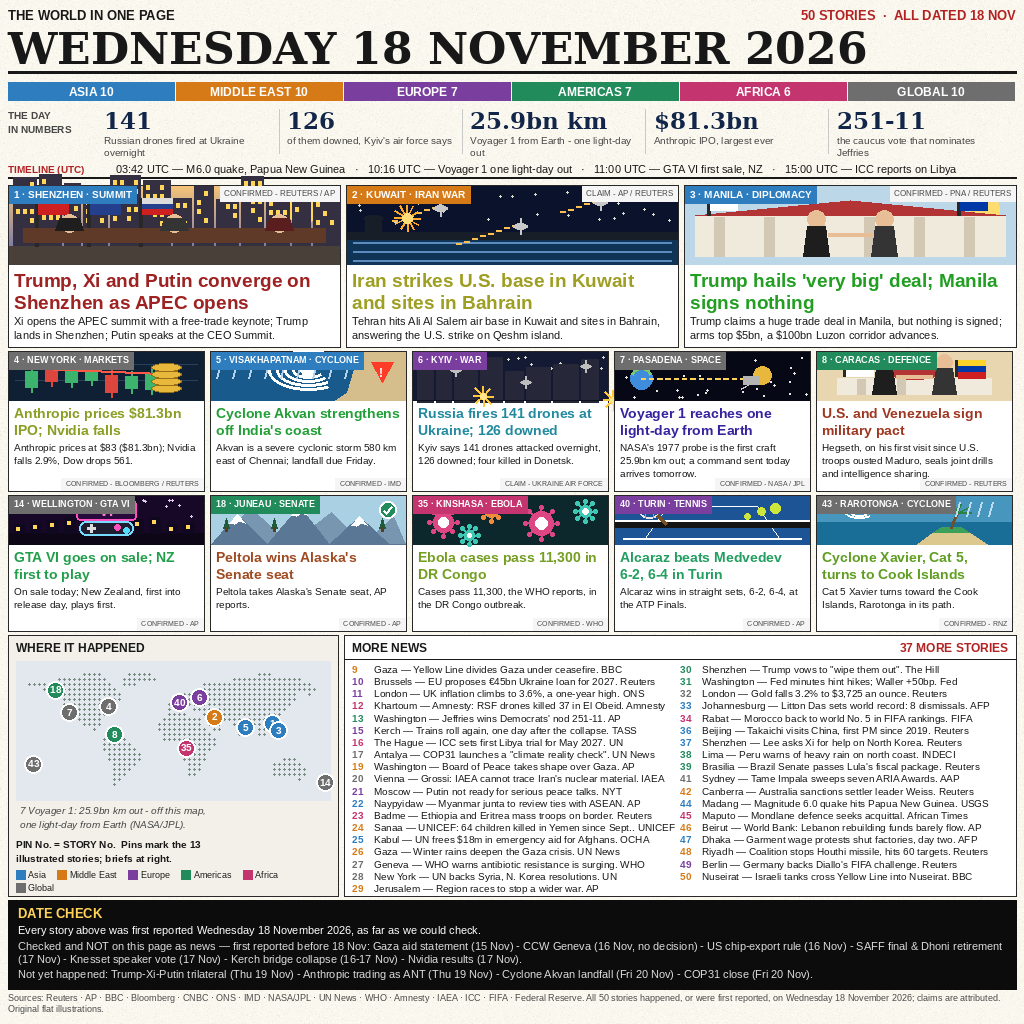
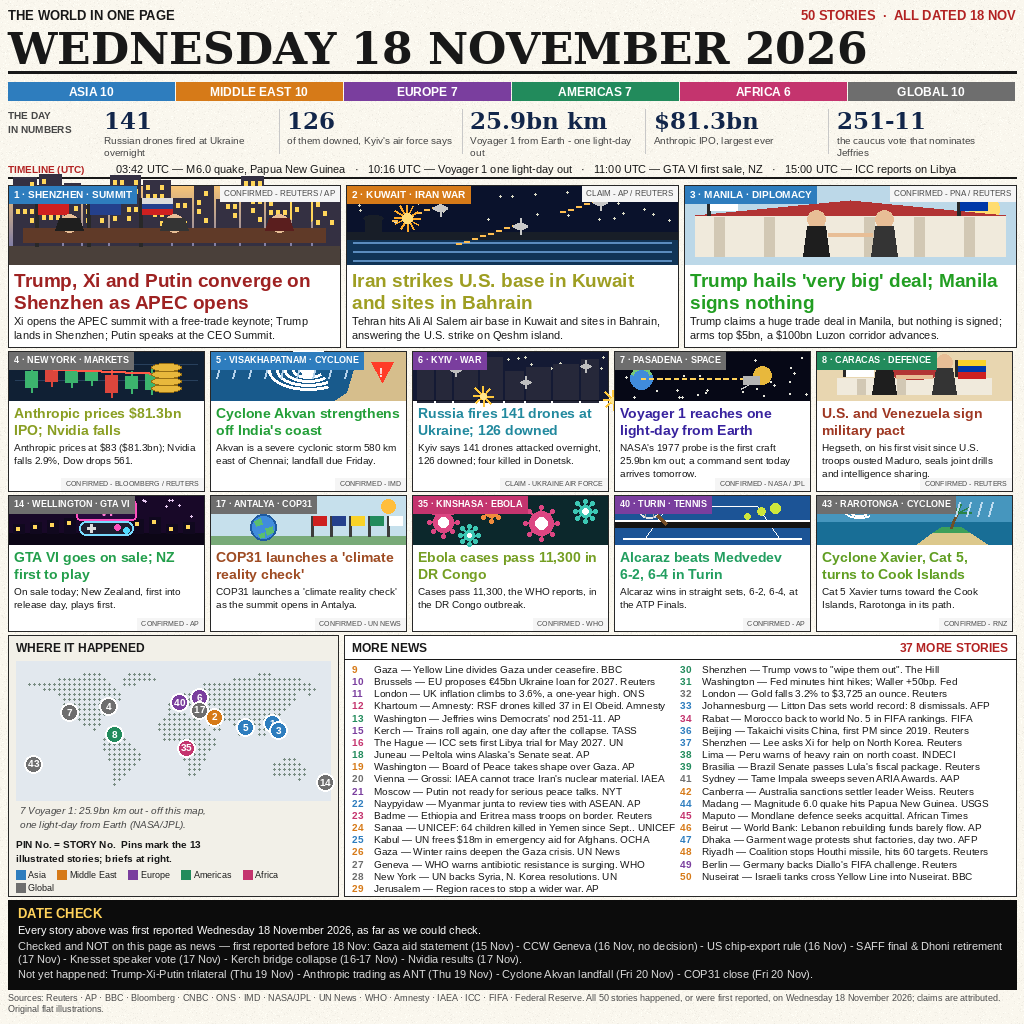
Duel round 1 fix: demote Peltola panel back to brief, promote COP31
Blind proxy duel vs live rank 1 flagged the Alaska Senate panel as a
date risk (rank 1's DATE CHECK lists the Alaska Senate call as first
reported 17 Nov). Peltola returns to brief 18 (its v1 prominence);
COP31 Antalya (corroborated on rank 1's own page) becomes the panel
instead. Still 13 illustrated panels, 50 stories, facts unchanged.
entry-v2.png re-rendered deterministic, 425146 bytes. NOT submitted.

diff --git a/render.py b/render.py
@@ -134,11 +134,11 @@ PANELS = [
         "label": "CONFIRMED - AP", "scene": "gta",
     },
     {
-        "n": 18, "city": "JUNEAU", "topic": "SENATE", "region": "AMERICAS",
-        "lon": -134.4, "lat": 58.3,
-        "title": "Peltola wins Alaska's Senate seat",
-        "summary": "Peltola takes Alaska's Senate seat, AP reports.",
-        "label": "CONFIRMED - AP", "scene": "alaska",
+        "n": 17, "city": "ANTALYA", "topic": "COP31", "region": "GLOBAL",
+        "lon": 30.7, "lat": 36.9,
+        "title": "COP31 launches a 'climate reality check'",
+        "summary": "COP31 launches a 'climate reality check' as the summit opens in Antalya.",
+        "label": "CONFIRMED - UN NEWS", "scene": "cop31",
     },
     {
         "n": 35, "city": "KINSHASA", "topic": "EBOLA", "region": "AFRICA",
@@ -173,7 +173,7 @@ BRIEFS = [
     (13, "Washington", "Jeffries wins Democrats' nod 251-11", "AP", "AMERICAS"),
     (15, "Kerch", "Trains roll again, one day after the collapse", "TASS", "EUROPE"),
     (16, "The Hague", "ICC sets first Libya trial for May 2027", "UN", "AFRICA"),
-    (17, "Antalya", "COP31 launches a \"climate reality check\"", "UN News", "GLOBAL"),
+    (18, "Juneau", "Peltola wins Alaska's Senate seat", "AP", "AMERICAS"),
     (19, "Washington", "Board of Peace takes shape over Gaza", "AP", "MIDDLE EAST"),
     (20, "Vienna", "Grossi: IAEA cannot trace Iran's nuclear material", "IAEA", "GLOBAL"),
     (21, "Moscow", "Putin not ready for serious peace talks", "NYT", "EUROPE"),
@@ -705,12 +705,39 @@ def scene_xavier(d, x0, y0, x1, y1):
         d.line([(rx, y0 + 6), (rx - 4, y0 + 20)], fill=(190, 220, 240), width=2)
 
 
+def scene_cop31(d, x0, y0, x1, y1):
+    """Climate summit: a globe, a row of flags, rising sun."""
+    w, h = x1 - x0, y1 - y0
+    d.rectangle([x0, y0, x1, y1], fill=(198, 224, 236))
+    d.rectangle([x0, y1 - 8, x1, y1], fill=(120, 170, 120))
+    # sun, top right corner (clear of the flags below it)
+    d.ellipse([x1 - 24, y0 + 3, x1 - 10, y0 + 17], fill=(255, 190, 60))
+    # globe, left, dropped below the strip line
+    gx, gy, r = x0 + 52, y0 + 31, 13
+    d.ellipse([gx - r, gy - r, gx + r, gy + r], fill=(64, 140, 220),
+              outline=(30, 90, 160), width=2)
+    d.polygon([(gx - 9, gy - 6), (gx - 3, gy - 9), (gx - 1, gy - 3),
+               (gx - 7, gy - 1)], fill=(90, 190, 110))
+    d.polygon([(gx + 2, gy + 1), (gx + 9, gy - 1), (gx + 10, gy + 5),
+               (gx + 4, gy + 8)], fill=(90, 190, 110))
+    d.polygon([(gx - 5, gy + 7), (gx + 1, gy + 5), (gx + 1, gy + 10),
+               (gx - 3, gy + 11)], fill=(90, 190, 110))
+    # flags on poles, centre-right, below the strip
+    flag_cols = [(206, 32, 32), (36, 64, 140), (250, 210, 40), (34, 139, 92),
+                 (255, 255, 255)]
+    fx = x0 + 100
+    for col in flag_cols:
+        d.rectangle([fx, y0 + 20, fx + 2, y1 - 8], fill=(60, 60, 60))
+        d.rectangle([fx + 2, y0 + 20, fx + 15, y0 + 29], fill=col)
+        fx += 19
+
+
 SCENES = {
     "apec": scene_apec, "gulf": scene_gulf, "manila": scene_manila,
     "markets": scene_markets, "akvan": scene_akvan, "ukraine": scene_ukraine,
     "voyager": scene_voyager, "caracas": scene_caracas,
     "gta": scene_gta, "alaska": scene_alaska, "ebola": scene_ebola,
-    "tennis": scene_tennis, "xavier": scene_xavier,
+    "tennis": scene_tennis, "xavier": scene_xavier, "cop31": scene_cop31,
 }
 
 # ---------------------------------------------------------------- world map
